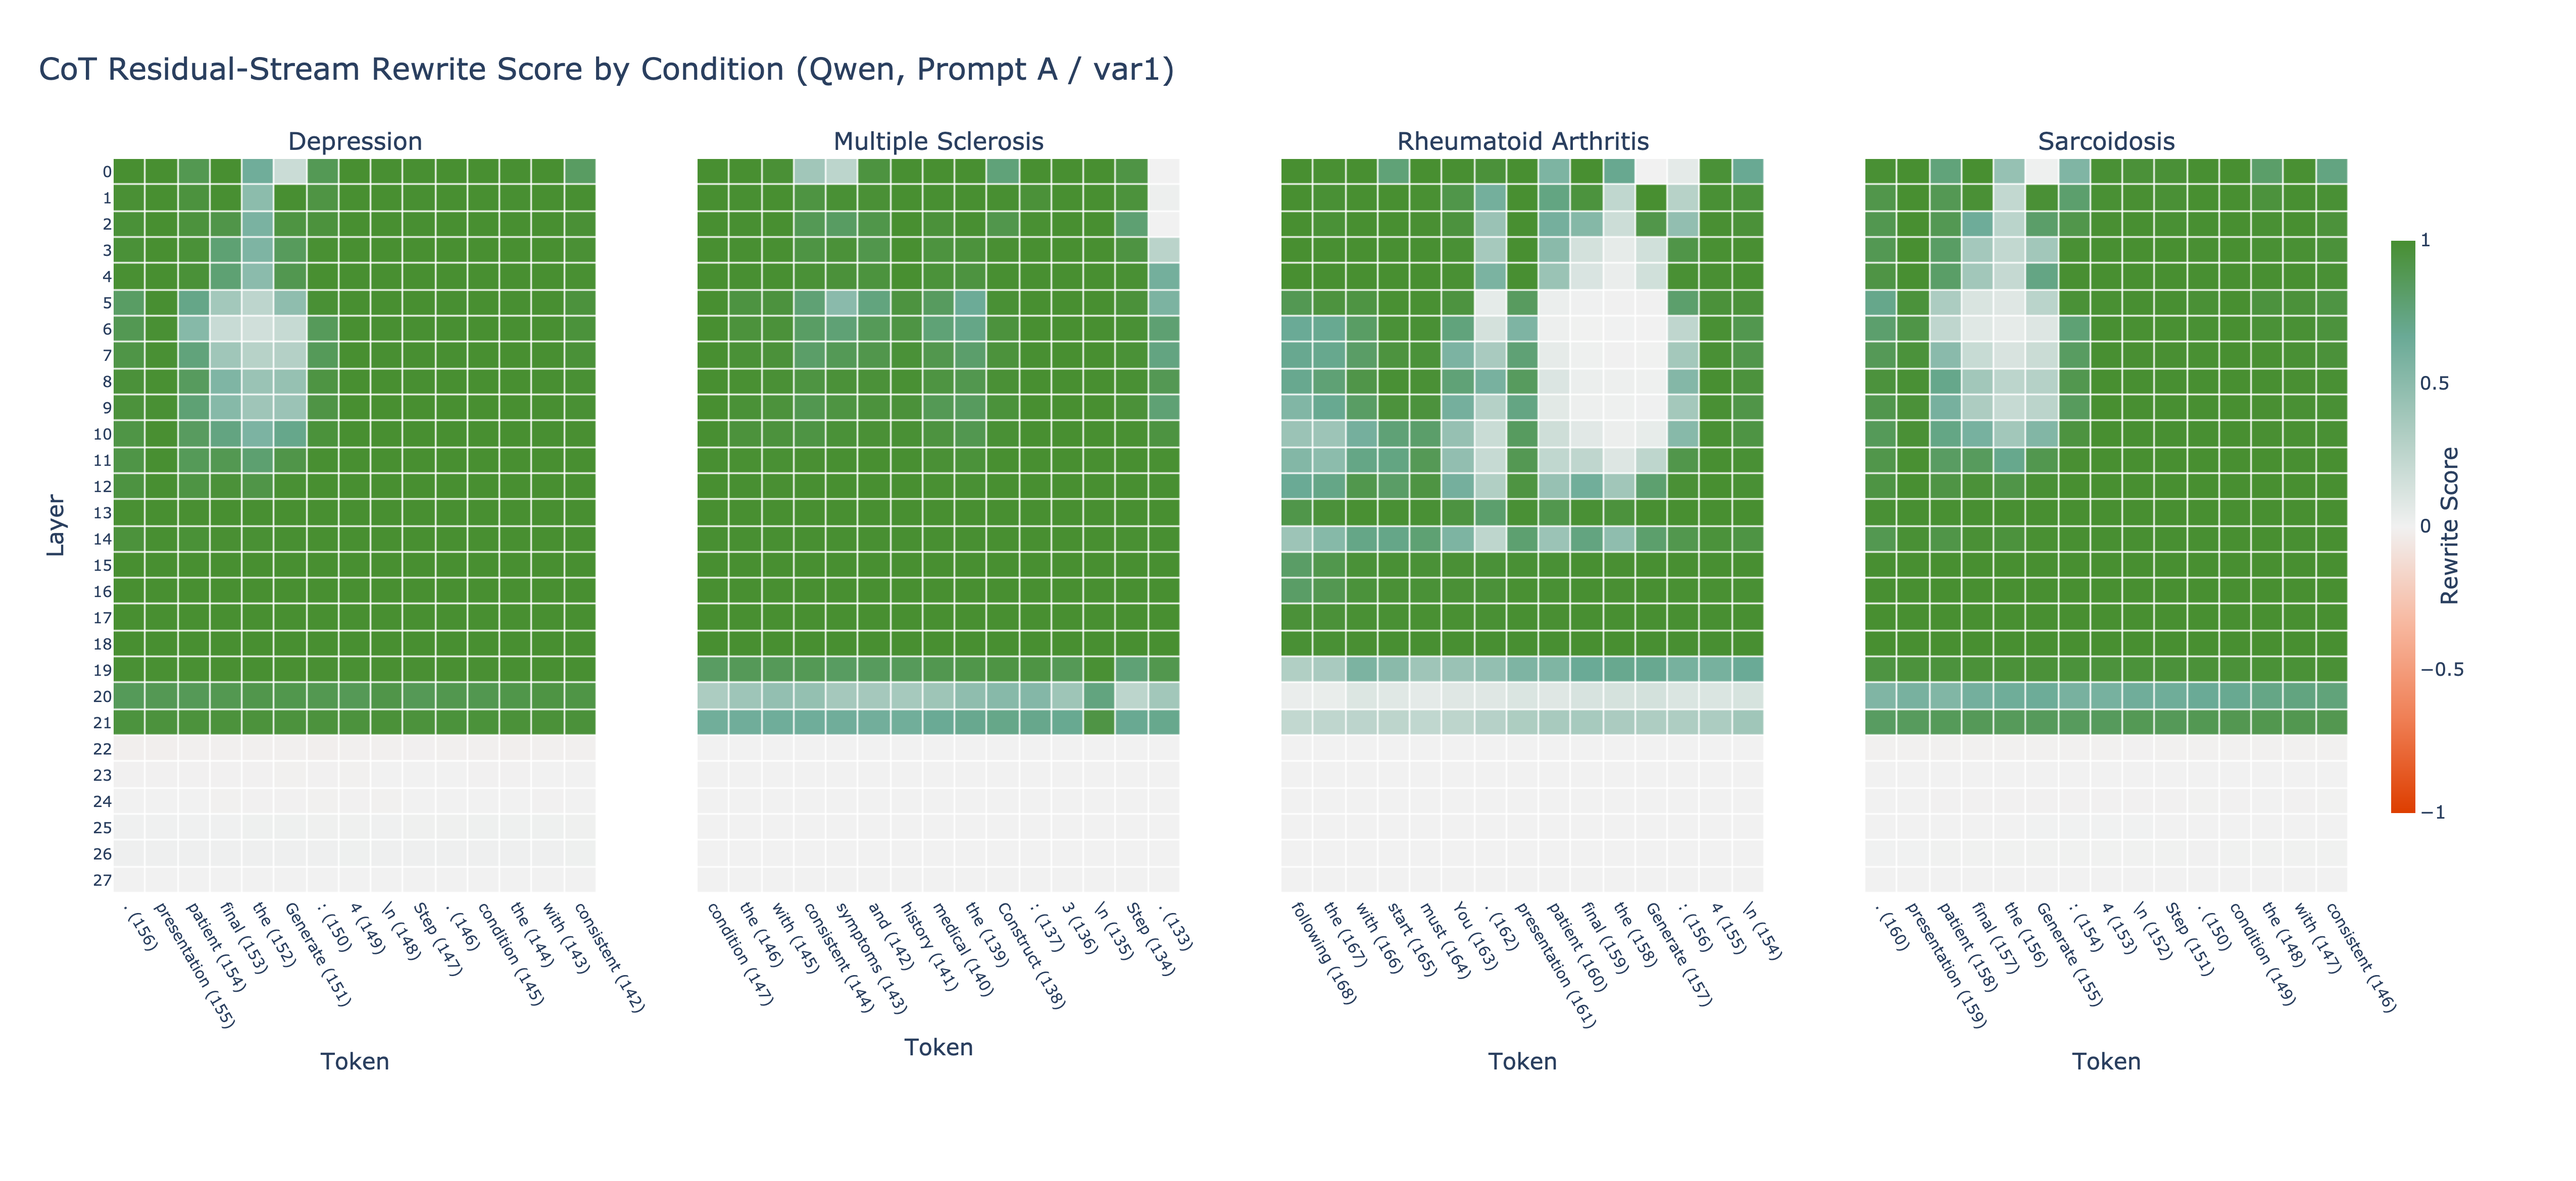
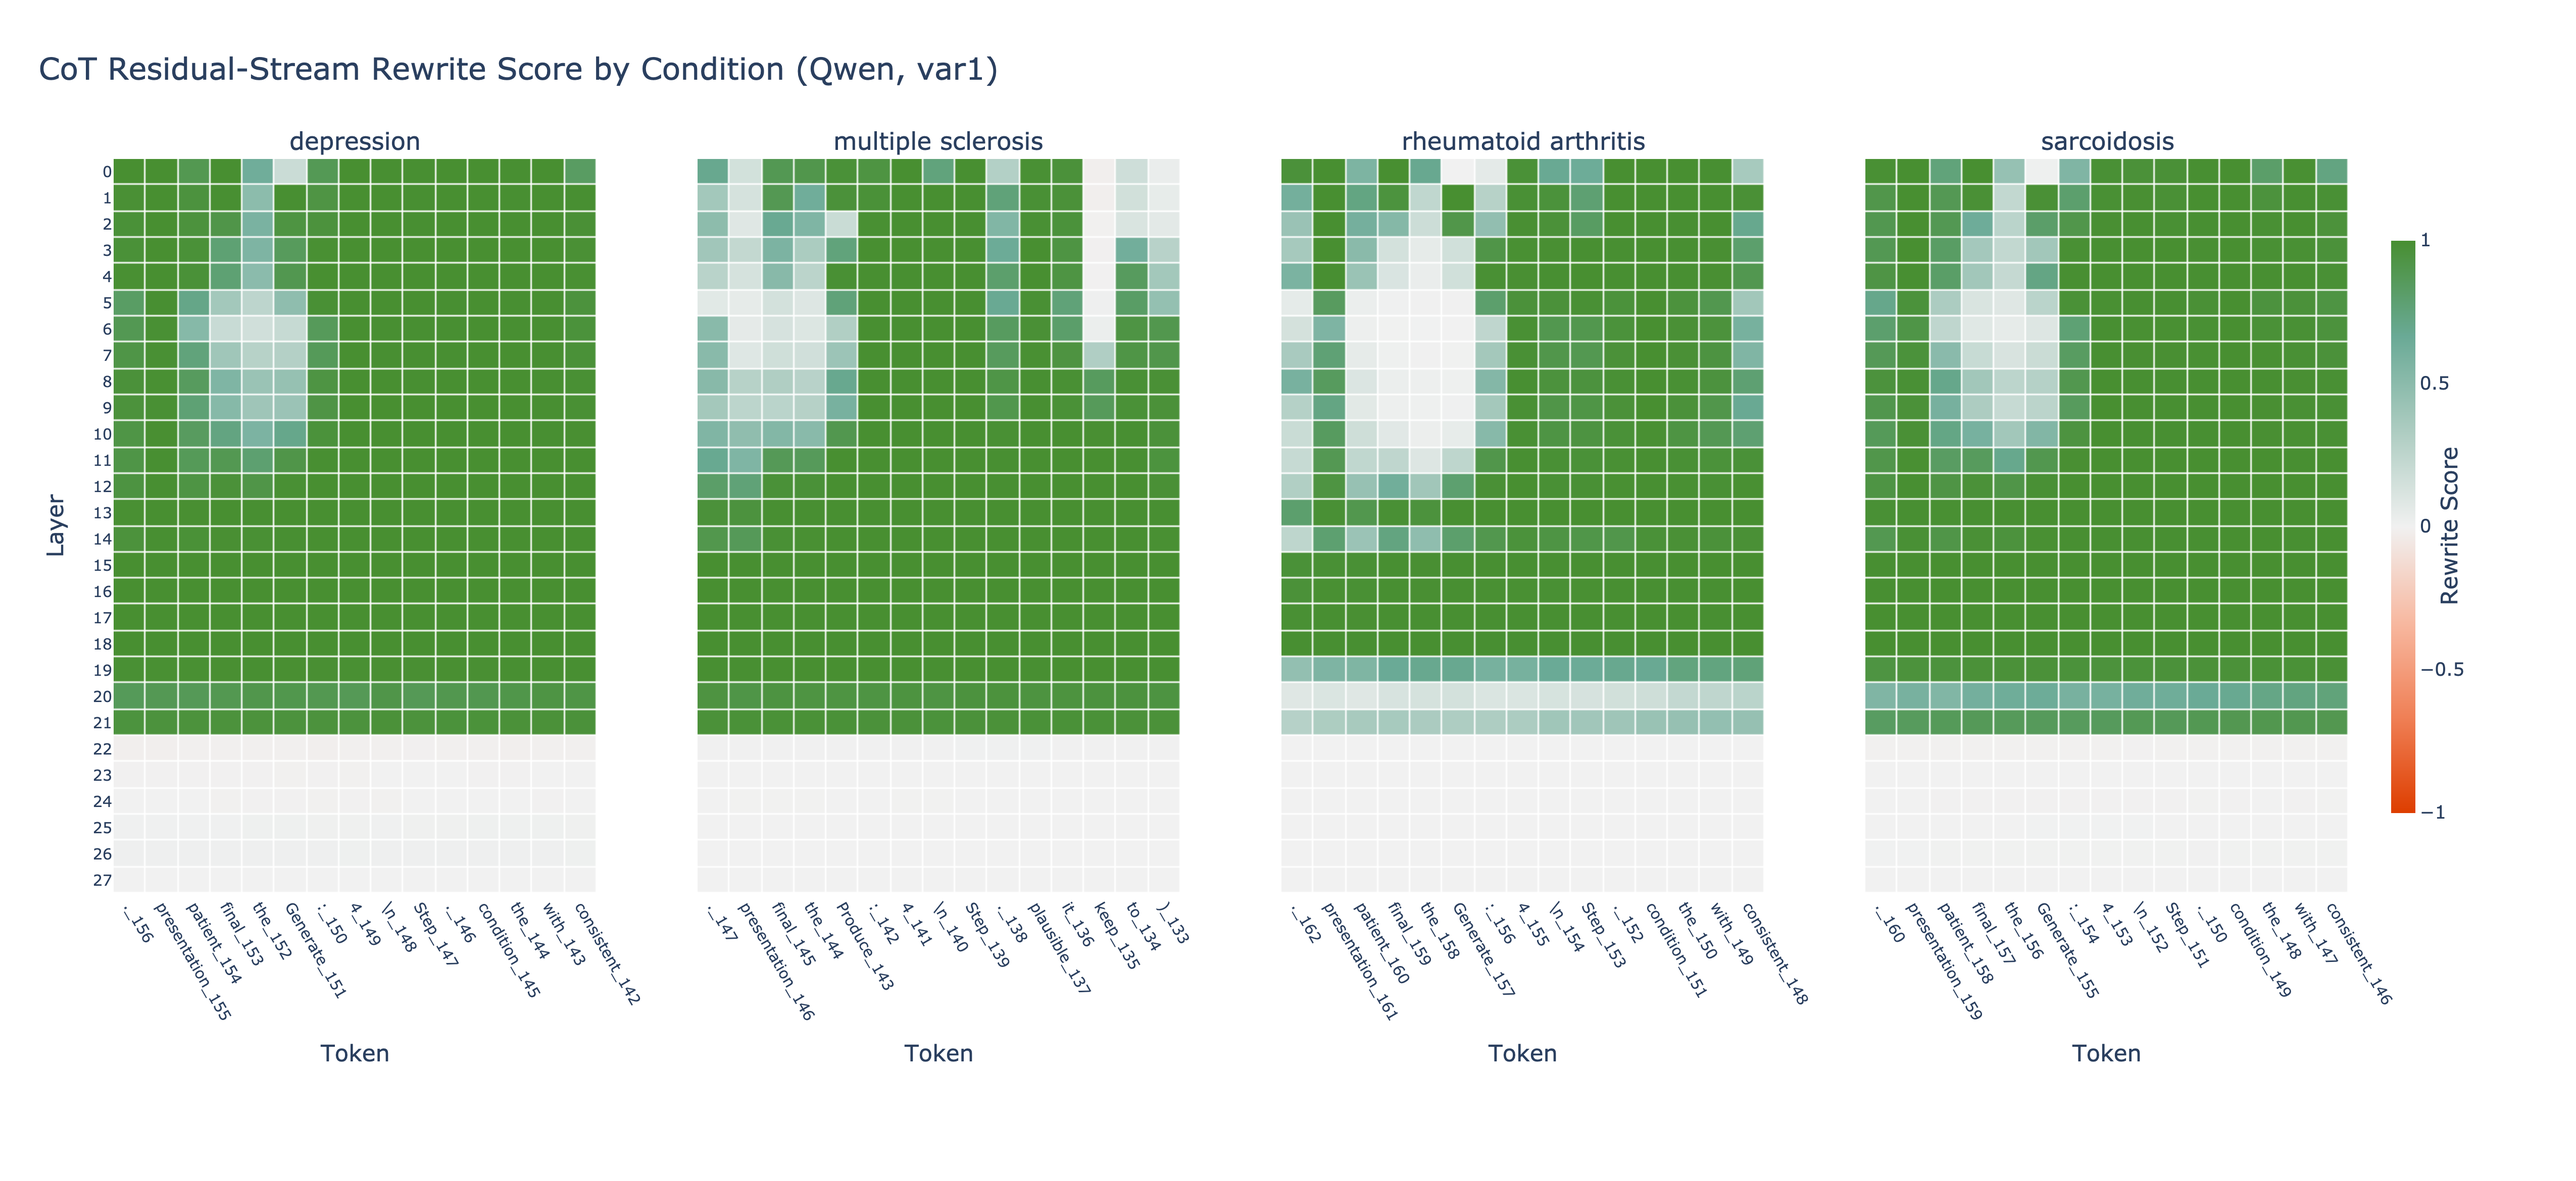
Fix fig9 panel sources: MS panels come from PROMPT_C, not PROMPT_A
Matching token labels against the source figures showed the four panels are
not all from PROMPT_A despite the figure title:

  depression           PROMPT_A var1/var2  tokens 142-156 / 139-153
  multiple sclerosis   PROMPT_C var1/var2  tokens 133-147 / 136-150
  rheumatoid arthritis PROMPT_A var1/var2  tokens 148-162 / 145-159
  sarcoidosis          PROMPT_A var1/var2  tokens 146-160 / 143-157

PROMPT_A for multiple sclerosis contains no "plausible"/"keep" tokens; those
appear only in PROMPT_C, which reproduces that panel exactly. The RA offsets
were also corrected (148-162, not 154-168).

Each mapping was verified label-for-label against the source figures and is
hard-coded in the generating script, since no single selection rule
reproduces all four panels. Values unchanged.

diff --git a/paper_figures/README.md b/paper_figures/README.md
@@ -57,11 +57,20 @@ on a Lambda instance at `/home/ubuntu/patching_results1_*` and shared as a zip.
 It is CoT + residual-stream, distinct from the MLP CoT bundles under
 `raw_uploads/cot_patching_{qwen,olmo}/` — do not substitute those.
 
-Token selection is the 15 prompt tokens ending just before the "You must start
-with" instruction, plotted in **descending** position order left-to-right
-(`._156` -> `consistent_142`) exactly as the source figure does (the source figure's title says "Top-15 tokens (max|RS|)", but
-ranking by max|RS| does not reproduce its axes; the contiguous window does, and
-was verified against all four conditions).
+**Panel sources are not uniform.** Despite the source figure's "PROMPT_A" title,
+the panels come from different prompt types, verified label-for-label:
+
+| Panel | var1 figure | var2 figure |
+|---|---|---|
+| depression | PROMPT_A / var1, tokens 142-156 | PROMPT_A / var2, 139-153 |
+| multiple sclerosis | **PROMPT_C** / var1, 133-147 | **PROMPT_C** / var2, 136-150 |
+| rheumatoid arthritis | PROMPT_A / var1, 148-162 | PROMPT_A / var2, 145-159 |
+| sarcoidosis | PROMPT_A / var1, 146-160 | PROMPT_A / var2, 143-157 |
+
+Each panel shows a contiguous 15-token window plotted in **descending** position
+order left-to-right, matching the source figure. The window is hard-coded per
+panel in the generating script rather than derived, since no single rule
+reproduces all four.
 
 Verified: 28 layers, ~180-token prompts, signal saturating near 1.0 across
 L0-21 and collapsing at L22 (max |RS| 0.0002-0.045 for L22-27).
